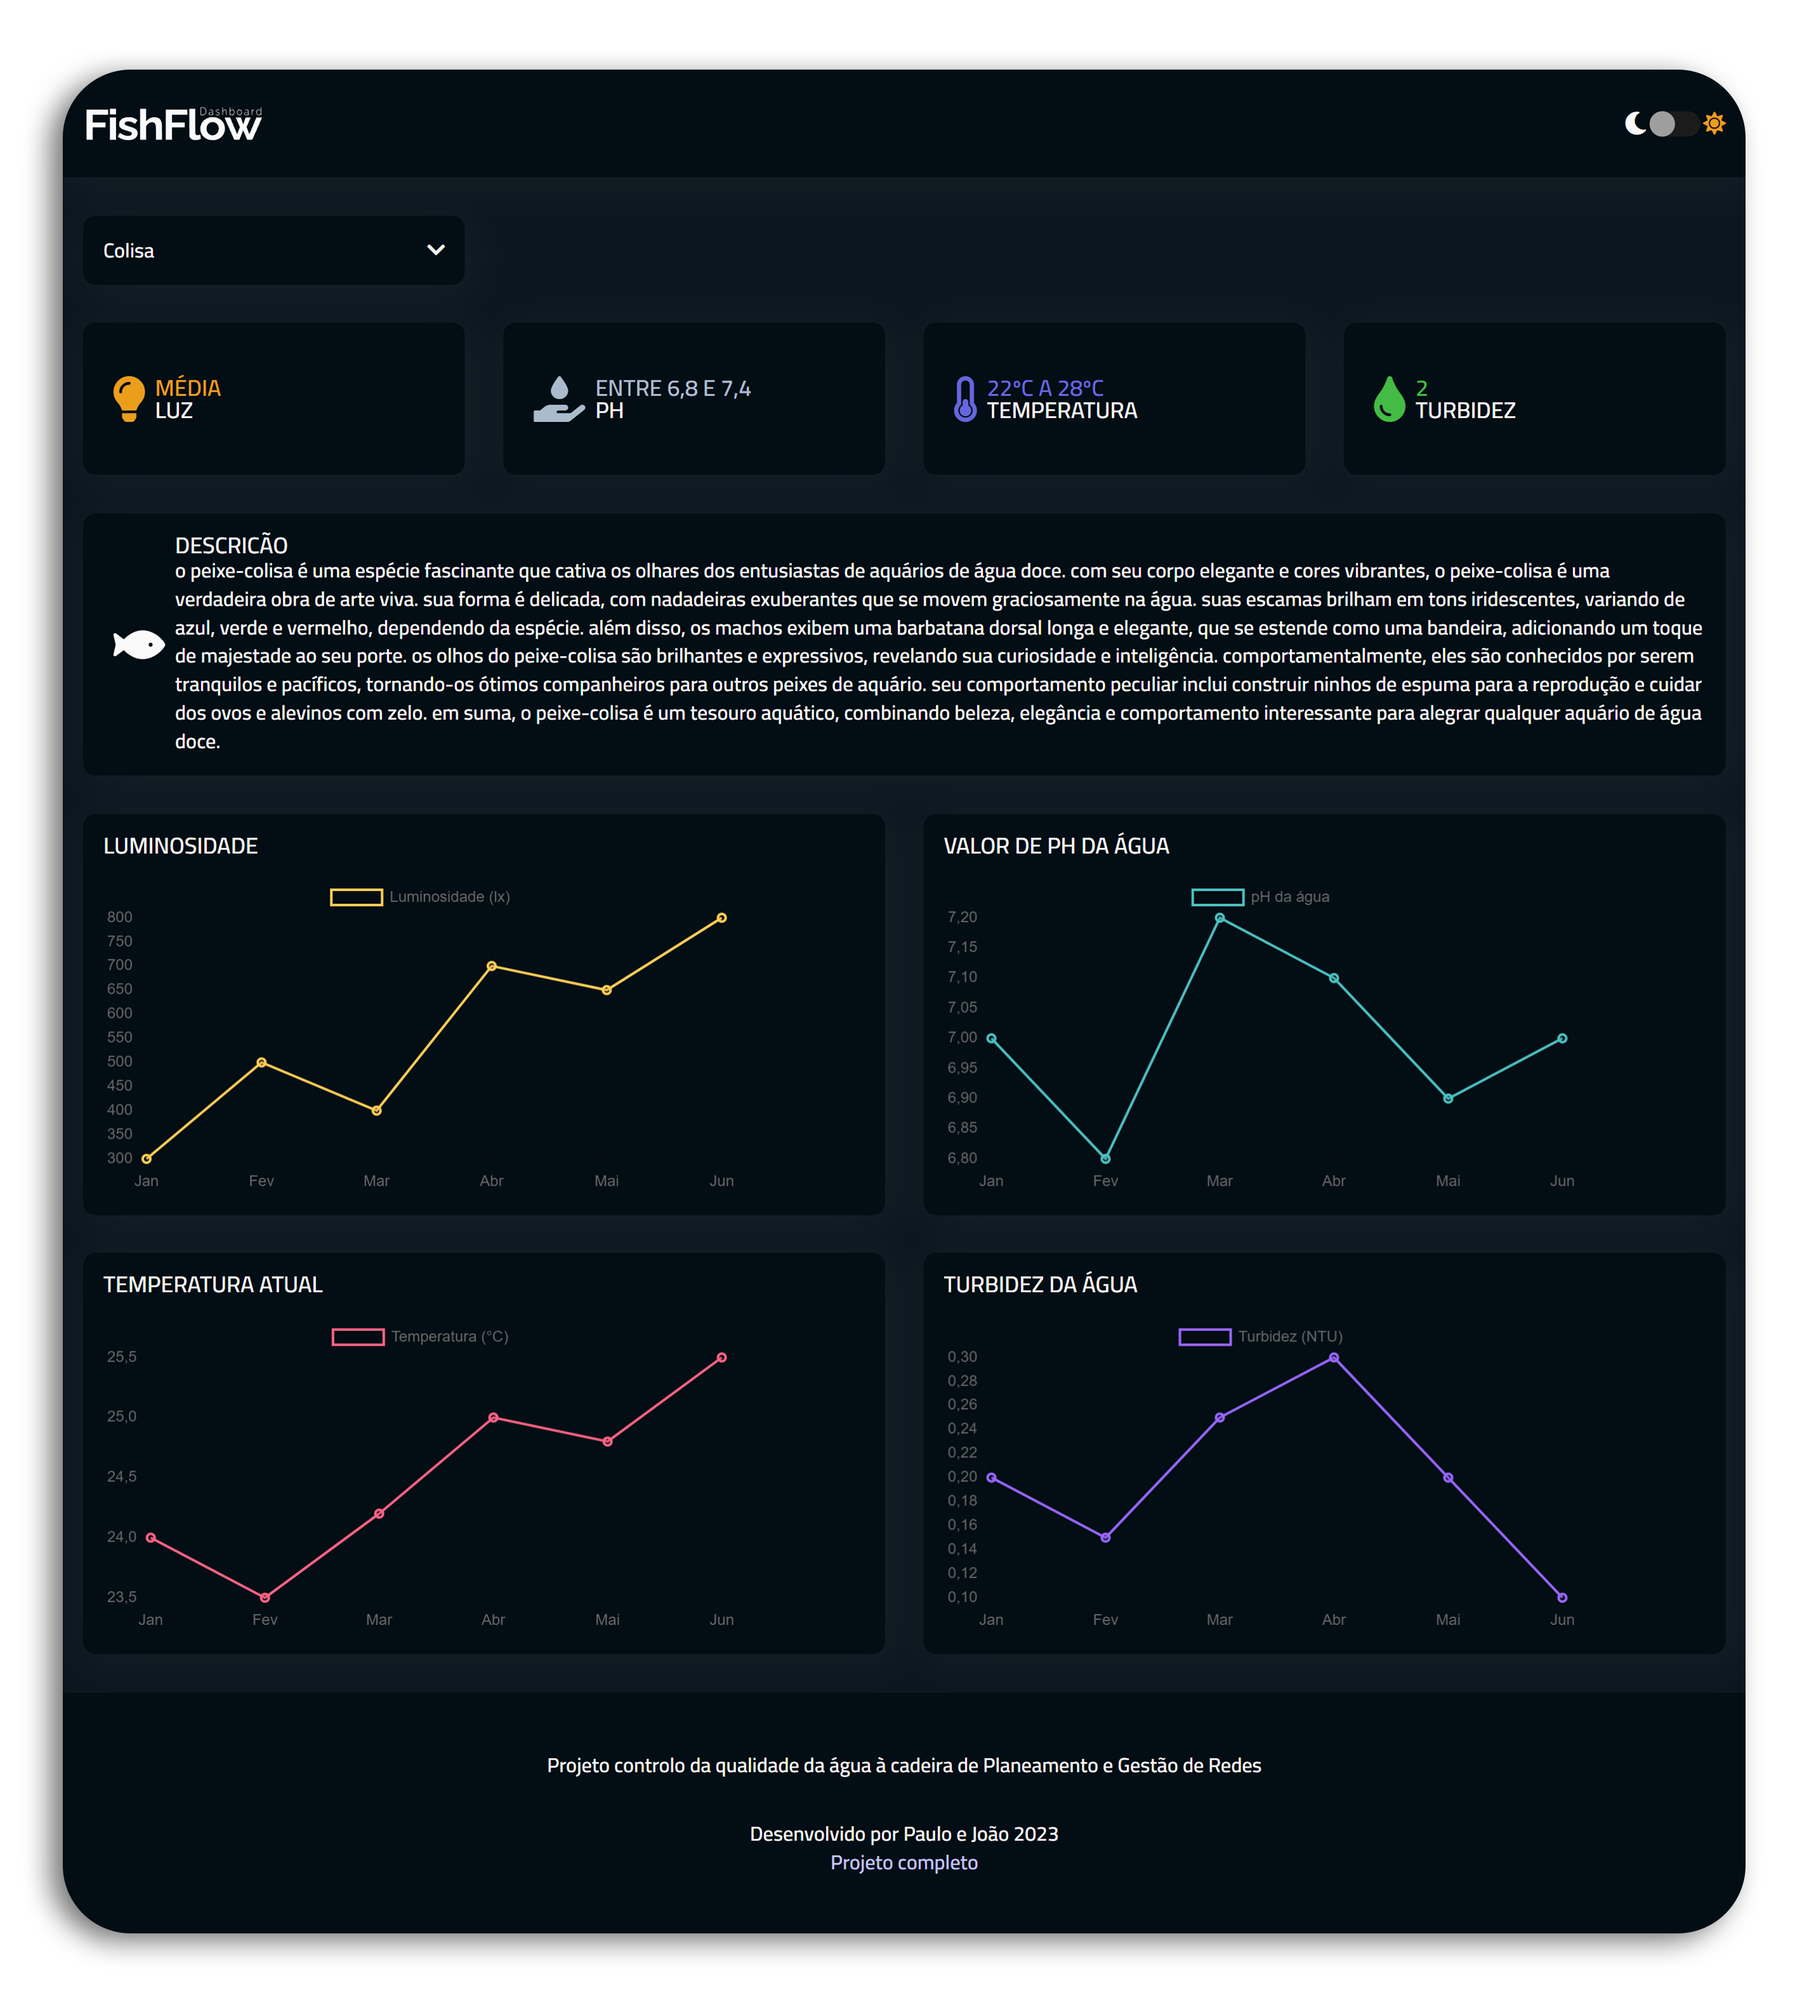
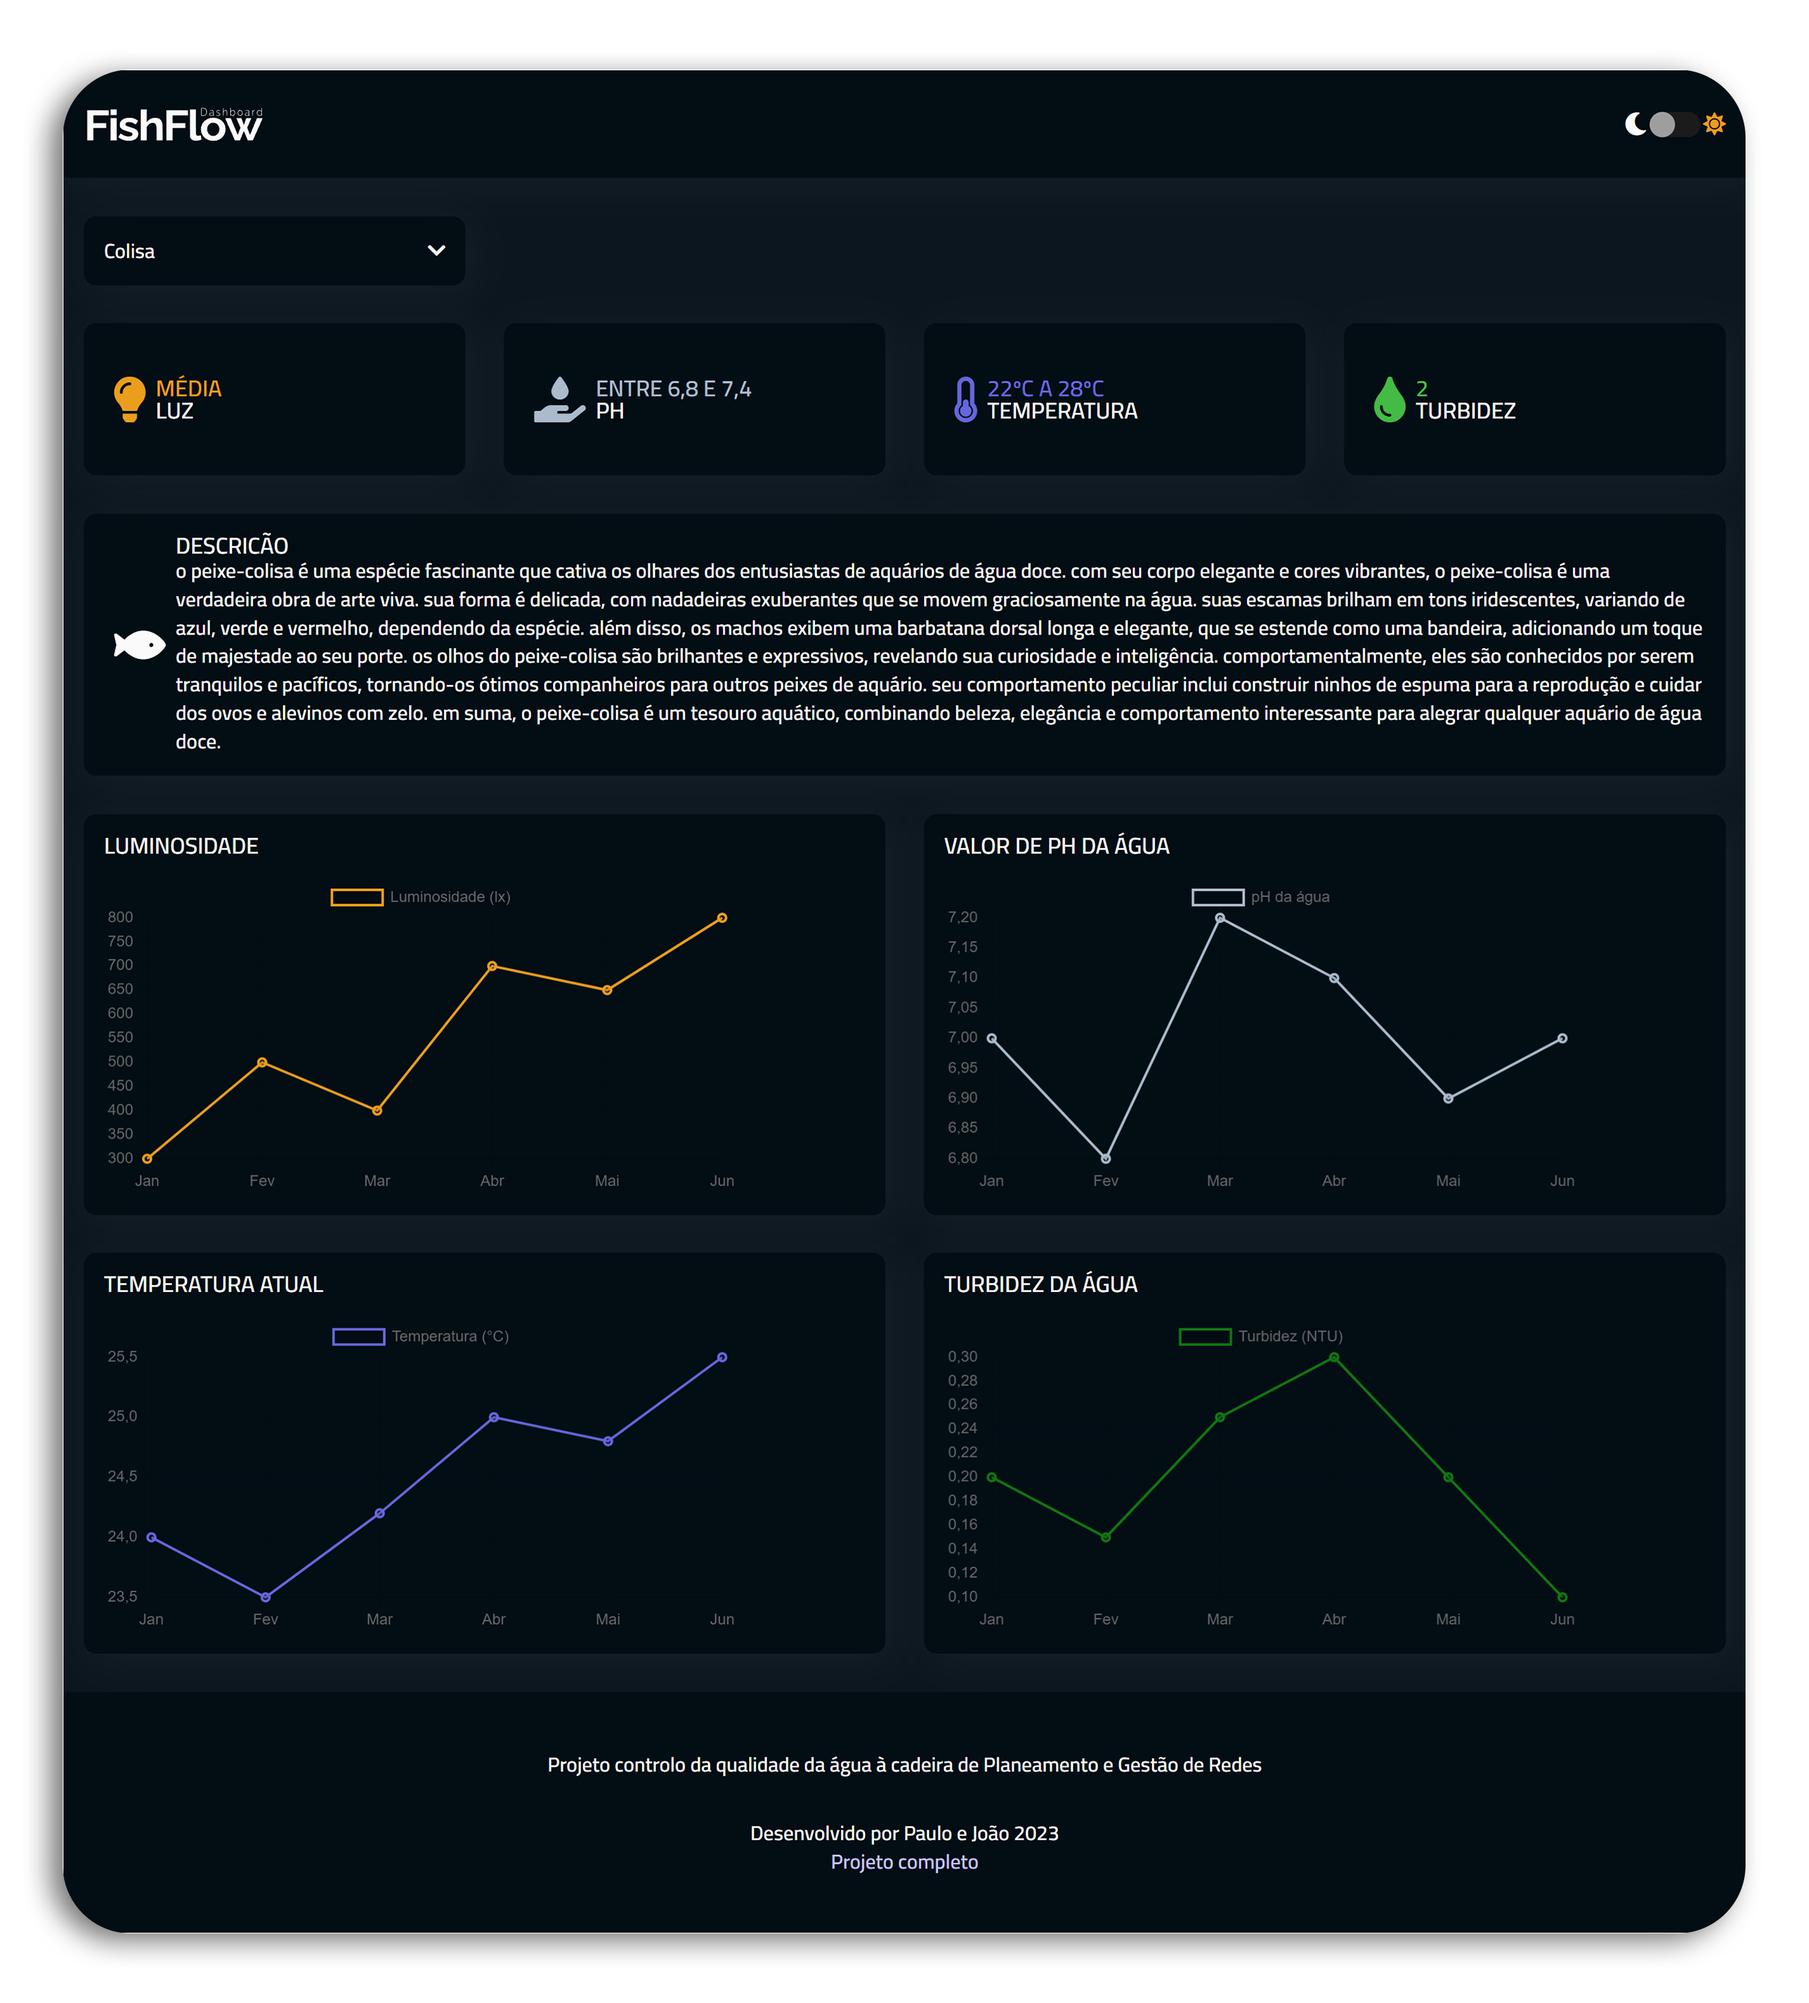
correção

diff --git a/Dashboard/dashboard.html b/Dashboard/dashboard.html
@@ -189,7 +189,7 @@
                 datasets: [{
                     label: 'Luminosidade (lx)',
                     data: [300, 500, 400, 700, 650, 800],
-                    borderColor: 'rgba(255, 205, 86, 1)',
+                    borderColor: '#ea9e1b',
                     borderWidth: 2,
                     fill: false
                 }]
@@ -208,7 +208,7 @@
                 datasets: [{
                     label: 'pH da água',
                     data: [7, 6.8, 7.2, 7.1, 6.9, 7],
-                    borderColor: 'rgba(75, 192, 192, 1)',
+                    borderColor: '#aabbcc',
                     borderWidth: 2,
                     fill: false
                 }]
@@ -227,7 +227,7 @@
                 datasets: [{
                     label: 'Temperatura (°C)',
                     data: [24, 23.5, 24.2, 25, 24.8, 25.5],
-                    borderColor: 'rgba(255, 99, 132, 1)',
+                    borderColor: '#6666dd',
                     borderWidth: 2,
                     fill: false
                 }]
@@ -246,7 +246,7 @@
                 datasets: [{
                     label: 'Turbidez (NTU)',
                     data: [0.2, 0.15, 0.25, 0.3, 0.2, 0.1],
-                    borderColor: 'rgba(153, 102, 255, 1)',
+                    borderColor: '#117711',
                     borderWidth: 2,
                     fill: false
                 }]
